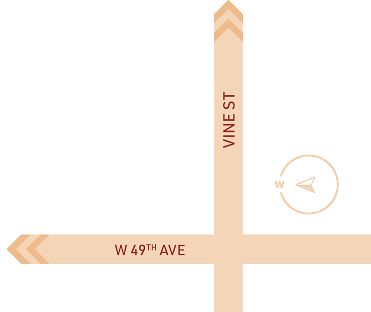
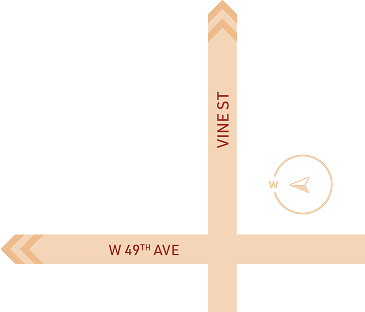
Adjust home components layout and styles
Responsive and visual tweaks across home components and assets. Updates include new map assets and multiple UI refinements: reduced heading sizes and icon sizing in Amenities; major Footer layout and spacing adjustments for md/lg breakpoints; Form typography, rotation and checkbox/cta sizing tweaks; Homes spacing and image sizing/stack offsets; RamenAndClothShop and Rentals responsive positioning and image sizing; ThreePictureGrid arrow positioning fix; VideoPlayerSection refactor to compute container height, simplify markup and improve desktop/mobile overlays; removed global headings font-family override in globals.scss. These changes improve responsiveness, spacing and visual hierarchy across the homepage.

diff --git a/src/components/home/VideoPlayerSection.tsx b/src/components/home/VideoPlayerSection.tsx
@@ -8,18 +8,20 @@ import { ASSETS } from "@/helpers/assets";
 const VideoPlayerSection = () => {
   const { isMob } = useDevice();
 
+  // On mobile: 100dvh minus the 3 fixed height top navs (180px total)
+  // On desktop: 100dvh minus top nav and sticky nav
+  const containerHeight = isMob
+    ? `calc(100dvh - ${CONSTANTS.navWithListofTextHeight + CONSTANTS.mobNavWithLogo + CONSTANTS.mobNavSticky}px)`
+    : `calc(100dvh - ${CONSTANTS.navWithListofTextHeight + CONSTANTS.desktopNav}px)`;
+
   return (
-    <>
-      <div
-        className="w-full relative lg:px-10 px-4"
-        style={{
-          height: isMob
-            ? `calc(100dvh - ${CONSTANTS.navWithListofTextHeight}px - ${CONSTANTS.mobNavWithLogo}px - ${CONSTANTS.mobNavSticky}px - ${CONSTANTS.desktopNav}px )`
-            : `calc(100dvh - ${CONSTANTS.navWithListofTextHeight}px - ${CONSTANTS.desktopNav}px - ${CONSTANTS.mobNavSticky}px)`,
-        }}
+    <section className="w-full relative lg:px-10 px-4">
+      <div 
+        className="w-full relative overflow-hidden" 
+        style={{ height: containerHeight }}
       >
-        {/* desktop view */}
-        <div className="hidden relative lg:block w-full h-full">
+        {/* Video Wrapper */}
+        <div className="w-full h-[45svh] lg:h-[90%] relative ">
           <video
             src={ASSETS.VideoHeader}
             autoPlay
@@ -29,49 +31,49 @@ const VideoPlayerSection = () => {
             className="w-full h-full object-cover"
           ></video>
 
-          <img
-            className=" absolute h-full right-0 top-0 z-10 "
-            src={ASSETS.WhiteArrow}
-            alt="white-Arrow"
-          />
-
-          <div className=" hidden lg:block opacity-75 w-[320px] h-[280px] bg-primary absolute  left-20 bottom-[-55px] pt-14 pl-7 ">
-            <span className=" font-bold text-3xl text-white pt-6 pb-2 ">
-              Life in balance. <br /> Westward bound.
-            </span>
-            <br />
-            <p className="text-white text-sm pt-4 mr-4">REGISTER NOW</p>
+          {/* Side Arrow - Desktop Only */}
+          <div className=" absolute h-full right-0 top-0 z-10 pointer-events-none">
             <img
-              className=" h-[74px] w-[30px] pt-8 "
+              className="h-full w-auto object-contain"
+              src={ASSETS.WhiteArrow}
+              alt="Decoration"
+            />
+          </div>
+
+          {/* Overlay Box - Desktop Only */}
+          <div className="hidden lg:flex flex-col justify-center opacity-90 w-[350px] h-[300px] bg-primary absolute left-16 bottom-[-60px] p-10 z-20">
+            <h1 className="font-bold text-4xl text-white leading-tight mb-6">
+              Life in balance. <br /> Westward bound.
+            </h1>
+            <div className="text-white text-sm tracking-[0.2em] font-bold mb-6 cursor-pointer hover:opacity-80">
+              REGISTER NOW
+            </div>
+            <img
+              className="h-[70px] w-auto self-start transform -translate-x-2"
               src={ASSETS.DownArrow}
-              alt="down-arrow"
+              alt="Scroll down"
             />
           </div>
         </div>
-        {/* mobile view */}
-        <div className="lg:hidden w-full lg:h-[100%] flex flex-col">
-          <video
-            src={ASSETS.VideoHeader}
-            autoPlay
-            loop
-            muted
-            playsInline
-            className="w-full object-cover"
-          ></video>
-          <span className=" font-bold text-primary text-2xl pt-6 pb-2 leading-normal ">
+
+        {/* Mobile Info Section (Appears below the 50svh video) */}
+        <div className="lg:hidden flex flex-col pt-4 pb-5">
+          <h2 className="font-bold text-primary text-2xl mb-2 leading-snug">
             Life in balance. <br /> Westward bound.
-          </span>
-          <span className="text-primary text-lg mt-[3px] mr-4">
-            REGISTER NOW
-          </span>
-          <img
-            className=" h-[44px] w-[30px] pt-2 "
-            src={ASSETS.DownArrow}
-            alt="down-arrow"
-          />
+          </h2>
+          <div className=" cursor-pointer">
+            <span className="text-primary text-lg font-bold tracking-wider mr-4">
+              REGISTER NOW
+            </span>
+            <img
+              className="h-10 w-auto mt-4"
+              src={ASSETS.DownArrow}
+              alt="Scroll down"
+            />
+          </div>
         </div>
       </div>
-    </>
+    </section>
   );
 };
 

diff --git a/src/components/home/Footer.tsx b/src/components/home/Footer.tsx
@@ -3,19 +3,23 @@ import { ASSETS } from "@/helpers/assets";
 
 const Footer = () => {
   return (
-    <footer className="bg-primary text-white py-12   l  g:py-10">
-      <div className="w-[90%] mx-auto flex flex-col lg:flex-row lg:justify-between lg:items-center">
+    <footer className="bg-primary text-white lg:py-10">
+      <div className="w-[100%] mx-auto flex md:flex-row md:justify-around md:items-center flex-col lg:flex-row lg:justify-between lg:items-center">
         {/* Logo and Info Section */}
-        <div className="flex flex-col lg:flex-row items-center  mb-12 lg:mb-0">
+        <div className="flex flex-col md:flex-row px-8 items-center  mb-12 lg:mb-0">
           {/* Component 1: Westward Logo and Map Arrows */}
 
-          <div className="lg:hidden mb-10 w-full ">
+          <div className="lg:hidden md:w-[35%] w-full ">
             <img
               src={ASSETS.WestwardDownArrowsLogo}
               alt="westward-logo"
-              className=" relative top-40 right-5 "
+              className=" relative md:right-2 md:scale-75 md:top-16 top-20 "
             />
-            <img src={ASSETS.MapArrows} alt="map-arrows" className=" w-full" />
+            <img
+              src={ASSETS.MapArrows}
+              alt="map-arrows"
+              className=" w-full relative md:scale-110 md:left-10 md:bottom-[50px] bottom-[100px] "
+            />
           </div>
 
           <div className=" hidden lg:flex flex-col sm:flex-row items-center justify-center lg:justify-start mb-12 lg:mb-0">
@@ -30,7 +34,7 @@ const Footer = () => {
           {/* Component 2: Contact/Location Info */}
           <div className=" relative lg:right-32 text-left flex flex-col gap-6 lg:gap-4">
             {/* Mobile-only "Coming Soon" text */}
-            <div className="lg:hidden text-[17px] font-medium opacity-90 leading-tight">
+            <div className="lg:hidden  text-[15px] md:w-[50%] md:mx-auto font-medium opacity-90 leading-tight">
               Leasing office and display homes coming soon
             </div>
 
@@ -47,14 +51,14 @@ const Footer = () => {
               </div>
             </div>
 
-            <div className="flex flex-col  font-charter ">
+            <div className="flex flex-col md:mx-auto   font-charter ">
               <span className="hidden lg:block text-sm font-bold tracking-widest uppercase opacity-80 mb-2">
                 Location
               </span>
-              <div className="text-[17px] lg:text-sm opacity-90 font-medium tracking-tight">
+              <div className="text-[15px]  lg:text-sm opacity-90 font-medium tracking-tight">
                 2325 West 49th Ave
               </div>
-              <div className="text-[17px] lg:text-sm opacity-90 font-medium tracking-tight">
+              <div className="text-[15px]  lg:text-sm opacity-90 font-medium tracking-tight">
                 Kerrisdale, Vancouver, BC
               </div>
             </div>
@@ -62,15 +66,15 @@ const Footer = () => {
         </div>
 
         {/* Intracorp Logo Section */}
-        <div className="flex flex-col items-center lg:items-end gap-6 border-t lg:border-t-0 border-white/10 pt-12 lg:pt-0">
-          <div className="flex flex-col items-center lg:items-end">
+        
+          <div className=" md:w-[30%] md:pr-10 ">
             <img src={ASSETS.IntracorpLogo} alt="Intracorp" />
           </div>
-        </div>
+        
       </div>
 
       {/* Disclaimer Section */}
-      <div className="w-[90%] mx-auto mt-12 lg:mt-16 pt-10 lg:pt-8">
+      <div className="w-[90%] mx-auto md:mt-0 mt-12 lg:mt-16 py-10 lg:pt-8">
         <p className=" text-sm leading-relaxed font-charter text-left ">
           This is not an offering for sale/lease. The developer reserves the
           right to make changes, modifications or substitutions to the design,

diff --git a/src/components/home/Form.tsx b/src/components/home/Form.tsx
@@ -6,18 +6,18 @@ const Form = () => {
     <div className="bg-[rgba(247,208,166,0.37)] py-20 px-6 lg:py-32 overflow-hidden">
       <div className="max-w-[1000px] mx-auto text-center">
         {/* Header Section */}
-        <div className="text-primary text-5xl mb-4 tracking-tight">
+        <div className="text-primary text-3xl font-semibold mb-4 tracking-tight">
           Be the first to know
         </div>
         <p className=" text-sm mb-6 font-medium">
           Register to receive the latest updates on Westward in Kerrisdale.
         </p>
-        <div className="flex rotate-90 justify-center mb-16">
+        <div className="flex -rotate-90 justify-center mb-16">
           <img src={ASSETS.RedArrows} alt="logo" className="w-20 h-auto" />
         </div>
 
         {/* Form Grid */}
-        <div className="grid grid-cols-1 md:grid-cols-2 gap-x-5 gap-y-4 mb-4">
+        <div className="grid md:text-sm grid-cols-1 md:grid-cols-2 gap-x-5 gap-y-4 mb-4">
           <input
             type="text"
             placeholder="First"
@@ -77,7 +77,7 @@ const Form = () => {
               className="w-6 h-6 appearance-none bg-[rgba(247,208,166,0.1)] border-2 border-primary checked:bg-primary  cursor-pointer transition-all relative after:content-[''] after:absolute after:hidden checked:after:block after:left-[7px] after:top-[2px] after:w-[6px] after:h-[12px] after:border-white after:border-b-2 after:border-r-2 after:rotate-45"
             />
           </div>
-          <p className="text-[8px] lg:text-sm font-charter leading-relaxed text-gray-800  opacity-90">
+          <p className="text-[12px] lg:text-sm font-charter leading-relaxed text-gray-800  opacity-90">
             By clicking this box, I hereby consent to receiving communications,
             promotional messages and other information from Intracorp and their
             respective current and future affiliates, including, without
@@ -99,7 +99,7 @@ const Form = () => {
             Privacy Policy
           </a>
 
-          <button className="flex items-center group transition-transform active:scale-95">
+          <button className="flex md:scale-75 items-center group transition-transform active:scale-95">
             <div className=" relative left-[70px] h-14 w-20 flex items-center justify-center">
               <img
                 src={ASSETS.SinglePaperArrow}

diff --git a/src/components/home/Homes.tsx b/src/components/home/Homes.tsx
@@ -92,7 +92,7 @@ const Homes = () => {
             Thoughtful Design. <br /> Timeless Comfort.
           </div>
 
-          <div className=" text-base font-charter leading-relaxed  mb-16">
+          <div className=" text-base font-charter   mb-10">
             Created in collaboration with interior design studio Ste. Marie,
             Westward homes blend style with everyday practicality. Bright
             interiors and a neutral palette set the stage for you to make it
@@ -101,10 +101,10 @@ const Homes = () => {
           </div>
 
           <div className="mb-12">
-            <div className="text-primary tracking-[0.2em]  text-xs mb-10 uppercase">
+            <div className="text-primary tracking-[0.2em]  text-xs mb-7 uppercase">
               Home Highlights
             </div>
-            <div className="flex flex-col gap-4">
+            <div className="flex flex-col gap-2">
               {highlights.map((item, index) => (
                 <div key={index} className="flex items-center gap-6">
                   <img
@@ -112,7 +112,7 @@ const Homes = () => {
                     className="w-4  "
                     alt="indicator"
                   />
-                  <span className=" font-charter text-base mt-[-2px]">{item}</span>
+                  <span className=" font-charter ">{item}</span>
                 </div>
               ))}
             </div>
@@ -125,15 +125,15 @@ const Homes = () => {
           </div>
         </div>
         {/* Staggered Images Section */}
-        <div className="relative pb-20">
-          <div className="w-[75%] relative z-0">
+        <div className="relative pb-10">
+          <div className="w-[65%] relative z-0">
             <img
               src={ASSETS.BlueSofa}
               alt="modern living room"
               className="w-full h-auto shadow-xl"
             />
           </div>
-          <div className="w-[75%] ml-auto mt-[-45%] relative z-10 ">
+          <div className="w-[65%] ml-auto mt-[-20%] relative z-10 ">
             <img
               src={ASSETS.Kitchen}
               alt="modern kitchen"

diff --git a/src/components/home/RamenAndClothShop.tsx b/src/components/home/RamenAndClothShop.tsx
@@ -4,16 +4,16 @@ const RamenAndClothShop = () => {
   return (
     <>
       <img
-        className=" size-52 relative left-[5%] top-20 lg:left-[69%] lg:top-24 animate-[spin_10s_linear_infinite] "
+        className=" size-52 relative left-[5%] top-20 md:left-[60%] lg:left-[69%] lg:top-24 animate-[spin_10s_linear_infinite] "
         src={ASSETS.CircleText}
         alt="circle-text-image"
       />
 
-      <div className="flex flex-col-reverse lg:flex-row justify-center items-center bg-primary ">
+      <div className="flex flex-col-reverse md:flex-row justify-center items-center bg-primary ">
         <div className="w-full lg:w-[50%]">
           <img className="w-full" src={ASSETS.ClothShop} alt="cloth-shop" />
         </div>
-        <div className=" lg:w-[50%] lg:h-full h-[440px] w-full flex justify-center items-center ">
+        <div className=" lg:w-[50%] md:h-full h-[440px] w-full flex justify-center items-center ">
           <div>
             <img
               className=" lg:w-[50%] w-1/2 h-auto my-auto m-auto "

diff --git a/src/components/home/Amenities.tsx b/src/components/home/Amenities.tsx
@@ -125,7 +125,7 @@ const Amenities = () => {
           <div className="text-primary tracking-[.3em] text-xs font-semibold mb-6 uppercase">
             Amenities
           </div>
-          <div className="text-primary text-4xl font-bold leading-tight mb-8">
+          <div className="text-primary text-3xl font-bold leading-tight mb-8">
             Everything You Need, <br /> Right Where You Need It.
           </div>
           <div className="text-base font-charter leading-relaxed mb-10">
@@ -160,7 +160,7 @@ const Amenities = () => {
                 <img
                   src={item.icon}
                   alt={item.title}
-                  className="w-12 h-12 mb-6"
+                  className=" mb-6"
                 />
                 <h3 className="text-white text-lg font-bold tracking-[0.2em] mb-4 uppercase">
                   {item.title}

diff --git a/src/components/home/Rentals.tsx b/src/components/home/Rentals.tsx
@@ -15,7 +15,7 @@ const Rentals = () => {
         </div>
       </div>
       <div className=" lg:bg-[rgba(247,208,166,0.37)]">
-        <div className=" text-primary text-3xl lg:text-5xl font-semibold lg:w-full text-center lg:text-center pt-20 lg:pb-16 ">
+        <div className=" text-primary text-3xl lg:text-5xl font-semibold lg:w-full text-left mx-6 lg:text-center pt-20 lg:pb-16 ">
           Modern Rentals, Classic Kerrisdale.
         </div>
         <img
@@ -35,7 +35,7 @@ const Rentals = () => {
             alt="bench-image"
           />
           <img
-            className="lg:w-[50%] w-[55%]"
+            className="lg:w-[50%] w-[58%] h-[100%] "
             src={ASSETS.Flats}
             alt="flats-image"
           />

diff --git a/src/components/home/ThreePictureGrid.tsx b/src/components/home/ThreePictureGrid.tsx
@@ -31,11 +31,11 @@ const ThreePictureGrid = () => {
           {/* Left Column */}
           <div className="w-1/2">
             <img src={ASSETS.Bus} alt="bus" className="w-full object-cover" />
-            <div className=" relative left-14 bottom-10">
+            <div className=" relative left-4  bottom-14">
               <img
                 src={ASSETS.RedArrows}
                 alt="red-arrows"
-                className="w-full max-w-[120px]"
+                className="w-full max-[120px]"
               />
             </div>
           </div>

diff --git a/src/styles/globals.scss b/src/styles/globals.scss
@@ -27,13 +27,6 @@ body {
   color: var(--text-primary);
 }
 
-h1,
-h2,
-h3,
-h4,
-h5,
-h6 {
-  font-family: "Newsreader", serif !important;
-}
+
 
 
